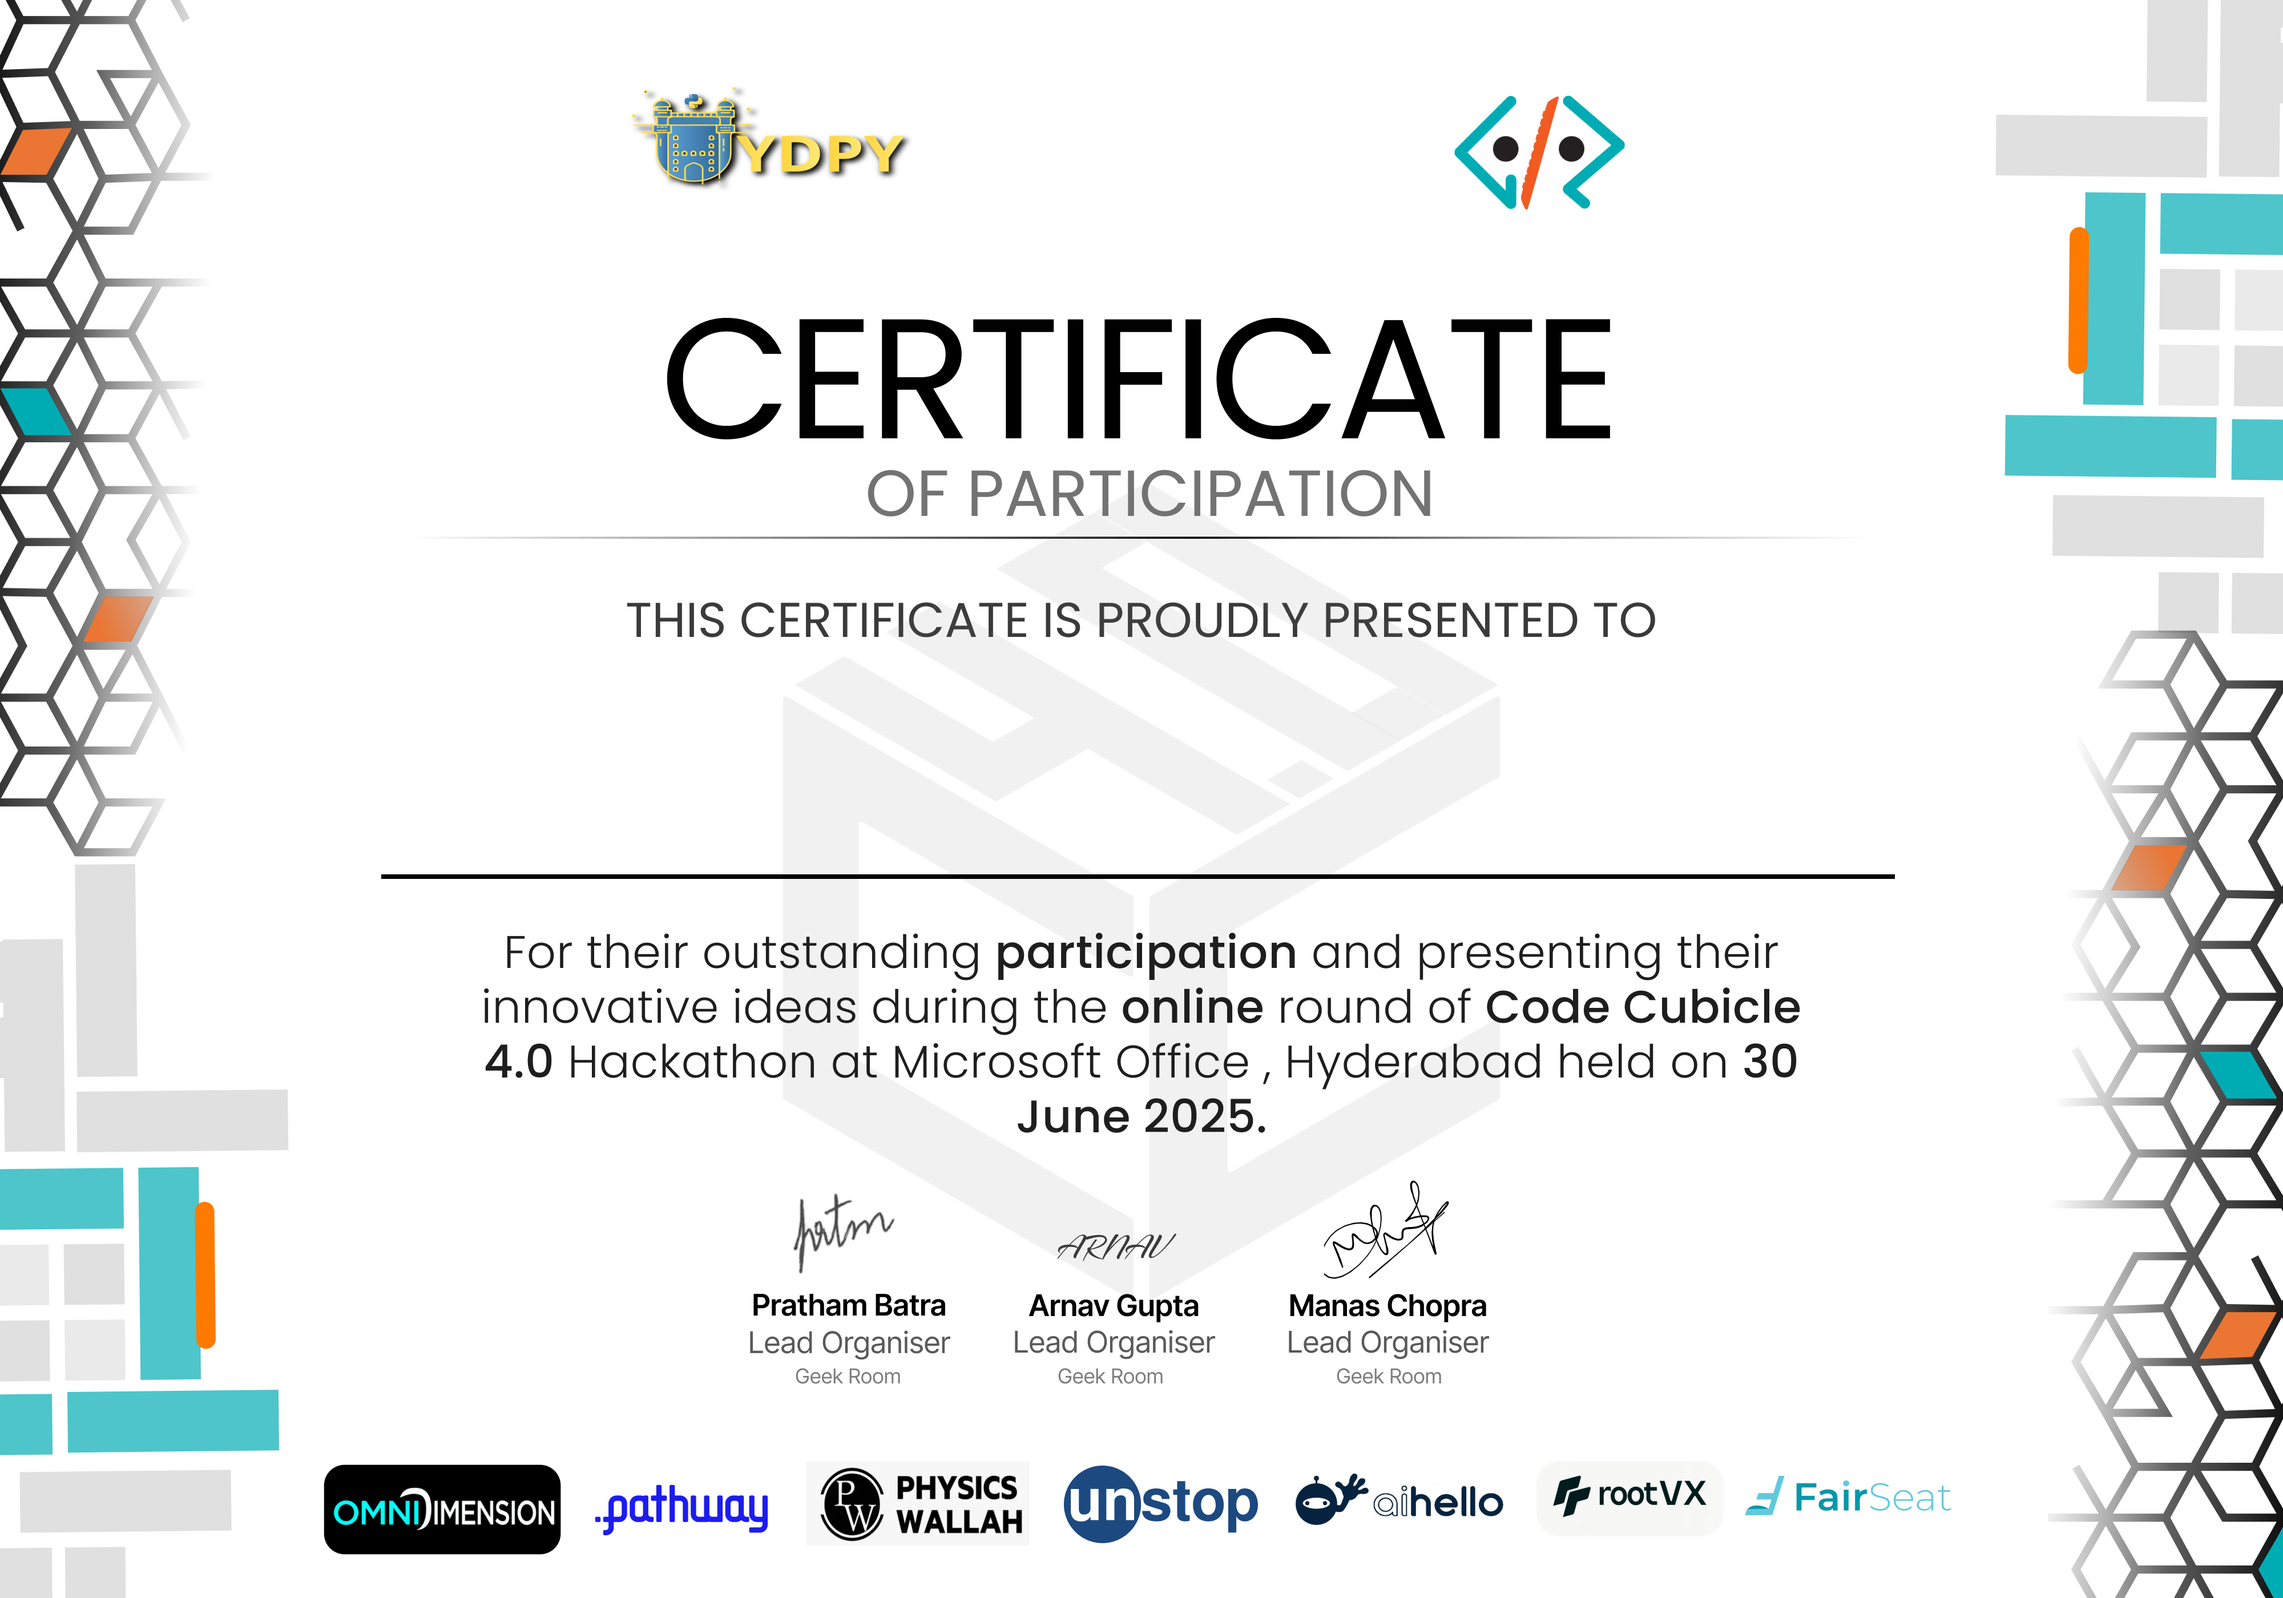
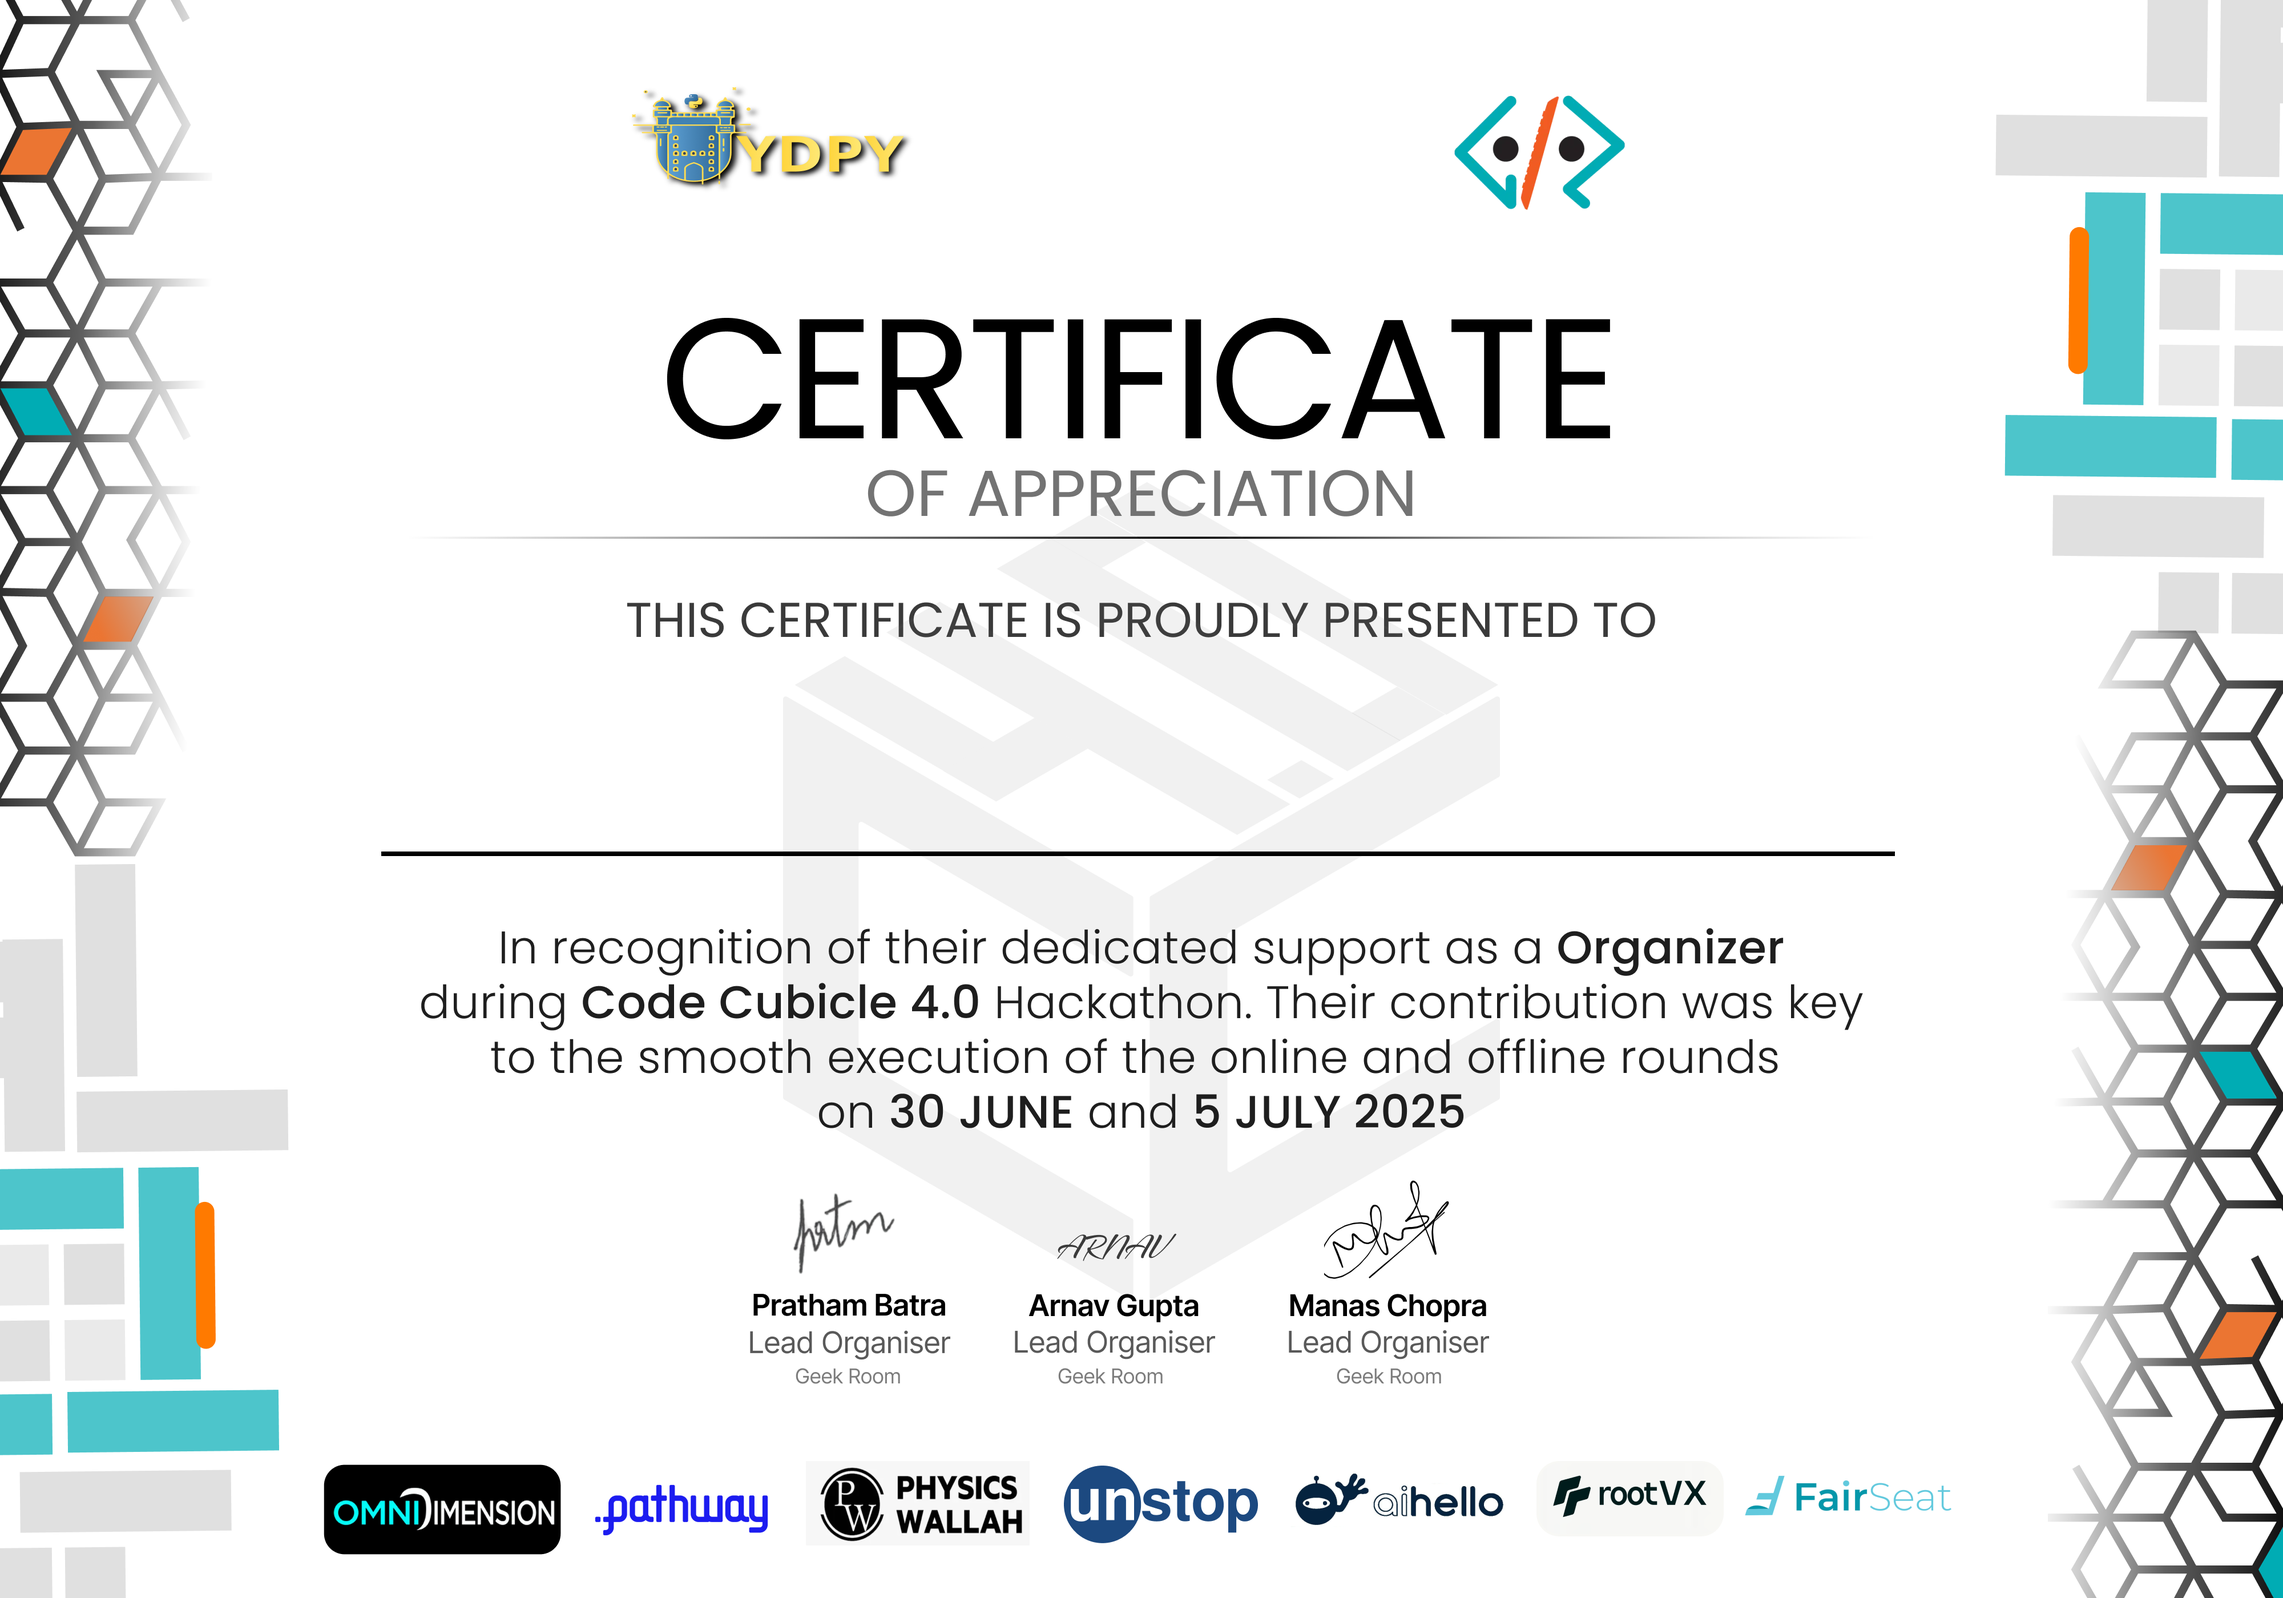
added cc certi

Changed region(s): [[0.1875, 0.5904, 0.8125, 0.7146], [0.1562, 0.5282, 0.8438, 0.5593], [0.4062, 0.2796, 0.625, 0.3418]]

diff --git a/gr-certi.py b/gr-certi.py
@@ -10,6 +10,12 @@ def main():
 
     # Input for name
     name = st.text_input("Enter your name:")
+    
+    # Dropdown for certificate type
+    certificate_type = st.selectbox(
+        "Select Certificate Type",
+        ["Vibathon", "Code Cubicle 4"]
+    )
 
     # Single button for certificate generation
     if st.button("Generate Certificate", key="generate_btn"):
@@ -18,11 +24,19 @@ def main():
             return
             
         try:
-            # Configuration
-            template_path = "online.png"
-            font_path = "Montserrat-Bold.ttf"
-            font_size = 100
-            y = 1050  # Updated to match certificate_generator_simple.py
+            # Configuration based on certificate type
+            if certificate_type == "Vibathon":
+                template_path = "online.png"
+                font_path = "Montserrat-Bold.ttf"
+                font_size = 100
+                y = 1050
+                text_color = (255, 255, 255)  # White text
+            else:  # Code Cubicle 4
+                template_path = "online-1.png"
+                font_path = "Montserrat-Bold.ttf"
+                font_size = 100
+                y = 1350  # Different y-value for Code Cubicle 4
+                text_color = (0, 0, 0)  # Black text
             
             # Create a BytesIO object to store the certificate
             img_buffer = io.BytesIO()
@@ -34,7 +48,7 @@ def main():
                 output_path=img_buffer,  # Pass BytesIO instead of file path
                 font_path=font_path,
                 font_size=font_size,
-                text_color=(255, 255, 255),  # Changed to white
+                text_color=text_color,
                 y=y
             )
             
@@ -45,7 +59,7 @@ def main():
             st.download_button(
                 label="Download Certificate",
                 data=img_buffer,
-                file_name=f"{name.replace(' ', '_')}_certificate.png",
+                file_name=f"{name.replace(' ', '_')}_{certificate_type.lower().replace(' ', '_')}_certificate.png",
                 mime="image/png",
                 key="download_btn"
             )
